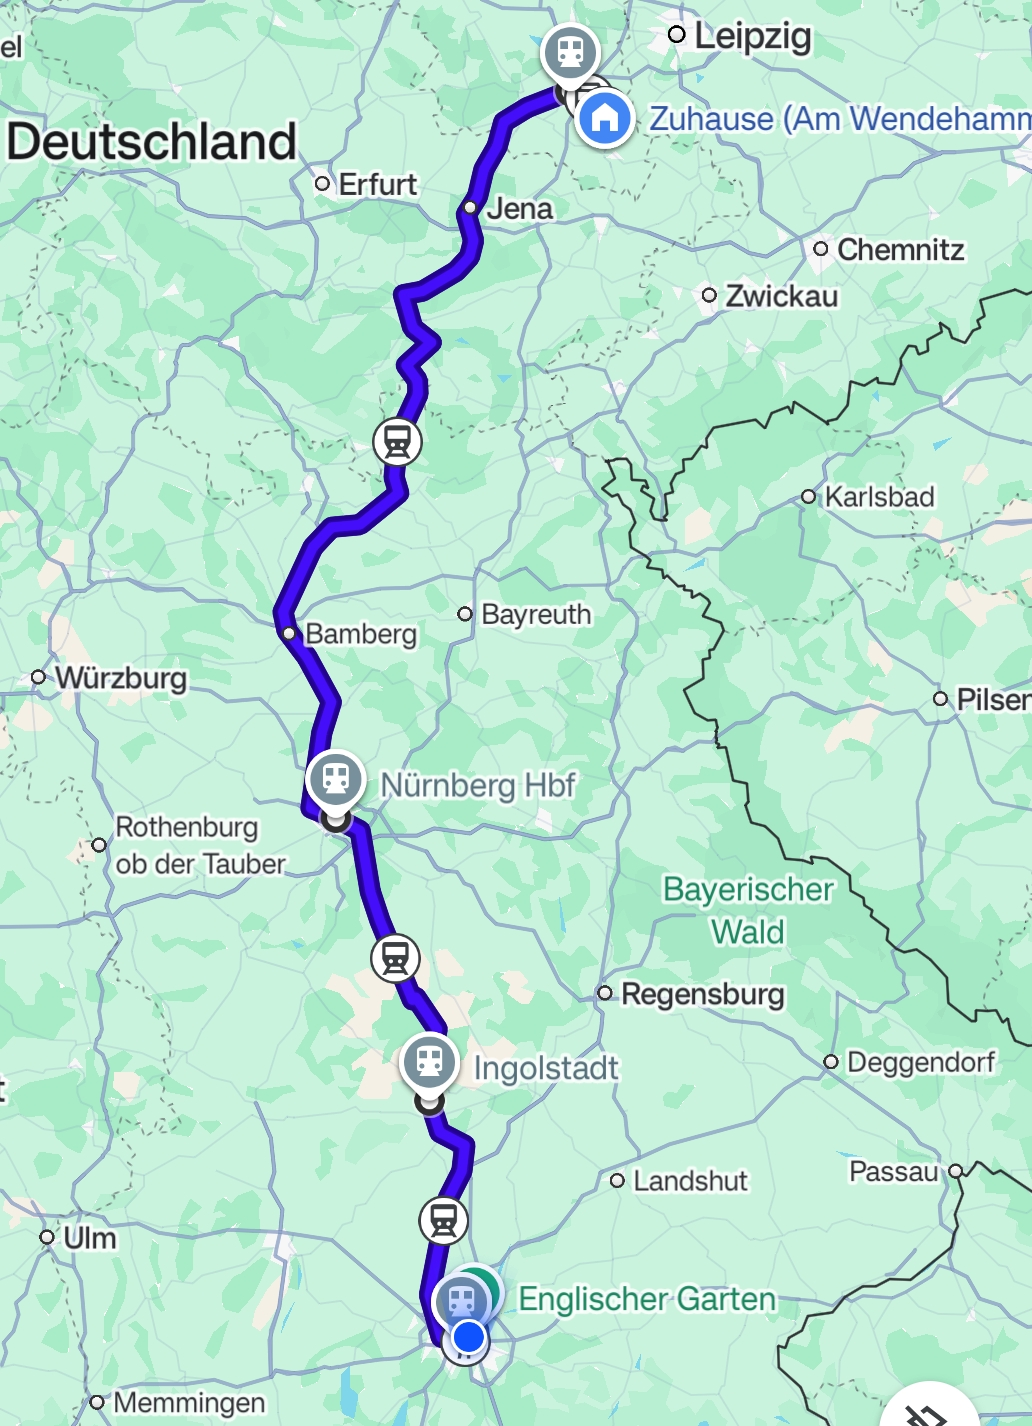
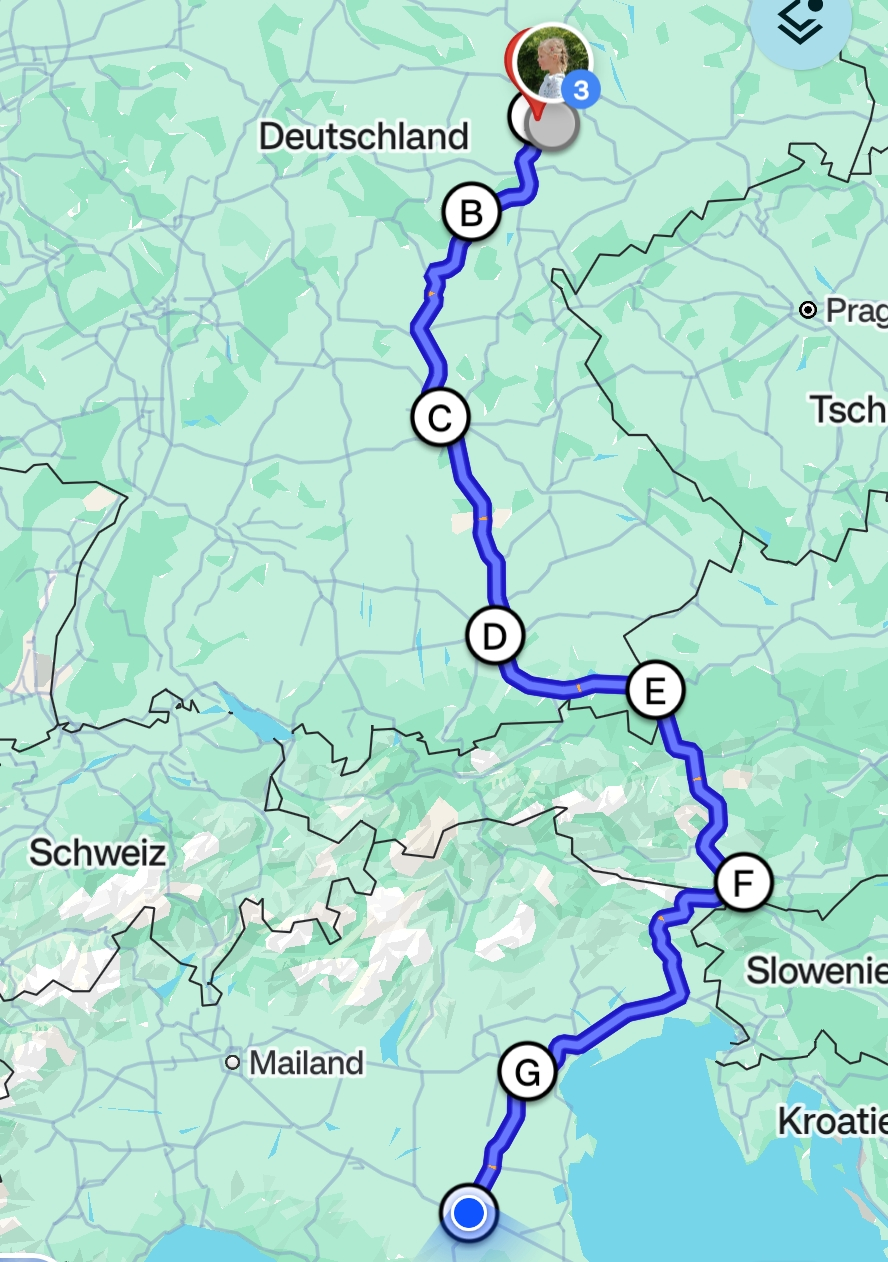
first day of Bologna

diff --git a/Bologna.md b/Bologna.md
@@ -4,7 +4,7 @@ layout: post
 
 # Ankunft in Bologna
 
-Auch die ÖBB kann Verspätung. In München schon 30 Minuten zu spät losgefahren, hat der Nachtzug noch gute weitere 1,5 Stunden Verspätung eingefahren. Das stört mich nicht, ich habe Zeit. Nur hätte ich mir gerne den Wecker etwas später gestellt, hätte ich das gewusst. 
+Auch die ÖBB kann Verspätung. In München schon 30 Minuten zu spät losgefahren, hat der Nachtzug noch gute weitere 2,5 Stunden Verspätung eingefahren (12 Stadt 9 Stunden Fahrzeit). Das stört mich nicht, ich habe Zeit. Nur hätte ich mir gerne den Wecker etwas später gestellt, hätte ich das eher gewusst. 
 
 ![IMG_20260726_195806](photos/IMG_20260726_195806.jpg)
 
@@ -12,11 +12,11 @@ Gestartet habe ich mit einem Frühstück, dass nicht der Rede wert war. Aber Kaf
 
 ----
 
-Noch ganz kurz zu Nachtzug ja oder nein: Ich kann die Reise damit empfehlen. Es macht Spaß und ist gemütlich, man wird die ganze Nacht gewiegt. Trotzdem darf man nicht davon ausgehen, dass man super viel Schlaf bekommt, besonders, wenn der Herr über einem nachts deutlich allen zeigt, dass er nicht schlafen kann 🤷♂. Wenn man die Reise als Teil des Urlaubs sieht und nicht nur als Notwendigkeit anzukommen, dann kann ich das klar empfehlen. 
+Noch ganz kurz zu Nachtzug ja oder nein: Ich kann die Reise damit empfehlen. Es macht Spaß und ist gemütlich, man wird die ganze Nacht wie in einer Wiege geschaukelt. Trotzdem darf man nicht davon ausgehen, dass man super viel Schlaf bekommt, besonders, wenn der Herr über einem nachts deutlich allen zeigt, dass er nicht schlafen kann 🤷♂. Wenn man die Reise als Teil des Urlaubs sieht und nicht nur als Notwendigkeit anzukommen, dann kann ich das klar empfehlen. 
 
 ----
 
-Nach der langen Fahrt konnte ich erst einmal die Koffern im Hotel lassen und habe mir ein nettes Café gesucht. 
+Nach der langen Fahrt konnte ich erst einmal die Koffer im Hotel lassen und habe mir ein nettes Café gesucht. 
 
 ![Felix beim Kaffeetrinken](photos/IMG_20260727_084624.jpg)
 
@@ -24,17 +24,38 @@ Im Hintergrund ist das Restaurant Bolognese. Das Rezept kommt aus dieser Stadt u
 
 ## Straße der Unabhängigkeit
 
-Mein Hotel für die nächsten beiden Nächte, welches dich hoffentlich nicht bewegt, befindet sind an der Via dell'Indipendenza. Wenn ich nicht falsch liege, ist damit an die Befreiung von den österreichischen Herrschern im 19. Jhd. erinnert.
+Mein Hotel für die nächsten beiden Nächte, welches sich hoffentlich nicht bewegt, befindet sind an der Via dell'Indipendenza. Wenn ich nicht falsch liege, ist damit an die Befreiung von den österreichischen Herrschern im 19. Jhd. erinnert.
 
 ![Hotel Regina](photos/IMG_20260727_083446.jpg)
 
-Diese Straße ist eine der wichtigsten Straßen, weil sie den Bahnhof mit der Innenstadt verbindet. Nicht jeder kann wie Leipzig seinen Bahnhof direkt im Zentrum bauen. Als wichtige historische Straße befanden sich schon immer große, herrschaftliche Häuser hier. Besonders bekannt sind die vielen Arkaden, die es hier gibt (aber auch an anderen Straßen).
+Diese Straße ist eine der wichtigsten Straßen, weil sie den Bahnhof mit der Innenstadt verbindet. Nicht jeder kann, wie Leipzig, seinen Bahnhof direkt im Zentrum bauen. Als wichtige historische Straße befanden sich schon immer große, herrschaftliche Häuser hier. Besonders bekannt sind die vielen Arkaden, die es hier gibt (aber auch an anderen Straßen).
 
 ![Arkaden, für die Bologna berühmt ist](photos/IMG_20260727_081108.jpg)
 
+Diese Arkaden erfüllen ihren Zweck hervorragend: Schatten spenden uns Verkehr von Fußgängern trennen.
+
 ----
 
-Auch interessant: über anderen hier wird die Straßenbahn wiederbelebt. Es gab wohl bis in die 60er Jahre ein Straßenbahnnetz, was dann aber stillgelegt wurde. Überraschenderweise hat man festgestellt, dass ein ÖPNV dich praktisch ist und baut nun ein neues Netz auf. 
+Auch interessant: in Bologna wird die Straßenbahn wiederbelebt. Es gab wohl bis in die 60er Jahre ein Straßenbahnnetz, was dann aber stillgelegt wurde. Überraschenderweise hat man festgestellt, dass ein ÖPNV doch praktisch ist und baut nun ein neues Netz auf. 
 
 ![Neue Straßenbahnschienen](photos/IMG_20260727_082231.jpg)
 
+## Santuario della Madonna di San Luca
+
+Etwas außerhalb von Bologna, auf einem Berg, liegt eine kleine Basilika. Gewidmet der Jungfrau vom Heiligen Lucas. Da es morgen noch wärmer sein soll, bin ich den Aufstieg direkt angegangen.
+
+![Kleine Basilika Madonna du San Lucas](photos/IMG_20260727_135344.jpg)
+
+Eine wirklich beeindruckende Kuppel mit einer großartigen Aussicht. 
+
+![Noch einmal die Basilika](photos/IMG_20260727_134328.jpg)
+
+Wie häufig sieht das von unten gar nicht so weit oben aus. Wenn man dann aber aufsteigen muss, zieht sich das. Es gibt einen sehr schönen Bogengang, der von ganz unten mit 666 Bögen nach oben führt. Der Gang bietet Schatten und Darstellungen mit biblischen Geschichten. Wenn es steiler wird, wechselt die Schräge auch zu Treppenstufen. 
+
+![Der Bogengang zum Aufstieg](photos/IMG_20260727_123140.jpg)
+
+Wenn man nur in der Altstadt herumläuft vergisst man schnell, dass die Stadt rundherum eine Großstadt ist. Das Panorama hat das wieder ins Gedächtnis gerufen, mit Flughafen, Stadion und Hochhaussiedlungen.
+
+![Überblick über Bologna](photos/IMG_20260727_125852.jpg)
+
+**Ich bin einen weiteren Tag in Bologna, es lohnt sich also, in dieses Kapitel demnächst noch einmal reinzuschauen**

diff --git a/index.md b/index.md
@@ -15,5 +15,8 @@ Ich unterteile die Reise in kleinere Kapitel. Eine Übersicht ist hier zu finden
     <li><a href="./StopMunich">Start der Reise</a>
         <p>Am ersten Tag gab es nur einen ganz kurzen Zwischenstopp in München. Vorher dafür Zittern, ob alle Anschlüsse klappen. </p>
     </li>
+     <li><a href="./Bologna">Aufenthalt in Bologna</a>
+        <p>Bologna ist der erste richtige Halt auf meiner Reise. Es gibt also ordentlich Zeit, die Stadt zu entdecken.</p>
+    </li>
 </ol>
 
